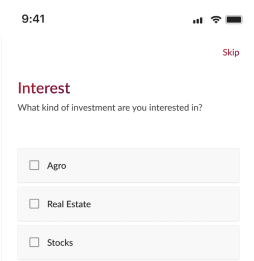
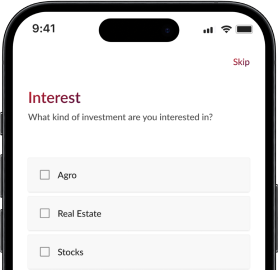
Added: images to the landing page

diff --git a/src/pages/LandingPage.jsx b/src/pages/LandingPage.jsx
@@ -18,9 +18,9 @@ import logoWhite from "../assets/landingPage/raiserWhite.svg";
 import alat from "../assets/landingPage/alat.png";
 import groupInvestment from "../assets/landingPage/groupinvestment.png";
 import getToKnow from "../assets/landingPage/Get to know 1.svg";
-import experience from "../assets/landingPage/Experience.png";
+import experience from "../assets/landingPage/Experience 1.svg";
 import interest from "../assets/landingPage/Interest.png";
-import DollarInvestment from "../assets/landingPage/DollarInvestment.svg";
+import screen from "../assets/landingPage/DollarInvestment.svg";
 
 const LandingPage = () => {
   const [activeLink, setActiveLink] = useState("");
@@ -361,8 +361,10 @@ const LandingPage = () => {
               </div>
 
               <div className="">
-                <img src={DollarInvestment} alt="dollar investment feature" />
-                {/* <div class="w-[874px] h-[538px] bg-stone-300 rounded-sm border-rose-100  "></div> */}
+                <img
+                  src={screen}
+                  alt="dollar investment feature"
+                />
               </div>
             </div>
           </section>
@@ -422,7 +424,7 @@ const LandingPage = () => {
               </div>
             </div>
           </div>
-          <div className="text-white text-opacity-50 text-base font-normal block lg:flex justify-between px-10 pb-4 items-center">
+          <div className="text-white text-opacity-50 text-base font-normal block sm:flex justify-between px-10 pb-4 items-center">
             <div className="flex items-center gap-5 pb-2">
               <h3 className="text-white">Powered by</h3>
               <img src={alat} alt="alat logo" className="w-10" />
